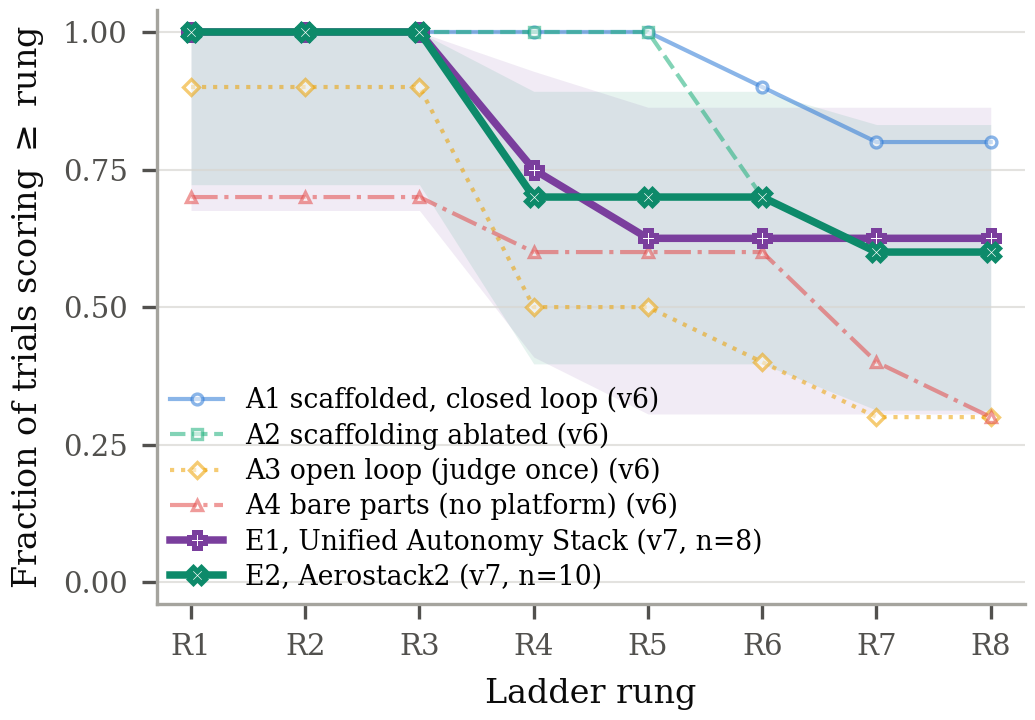
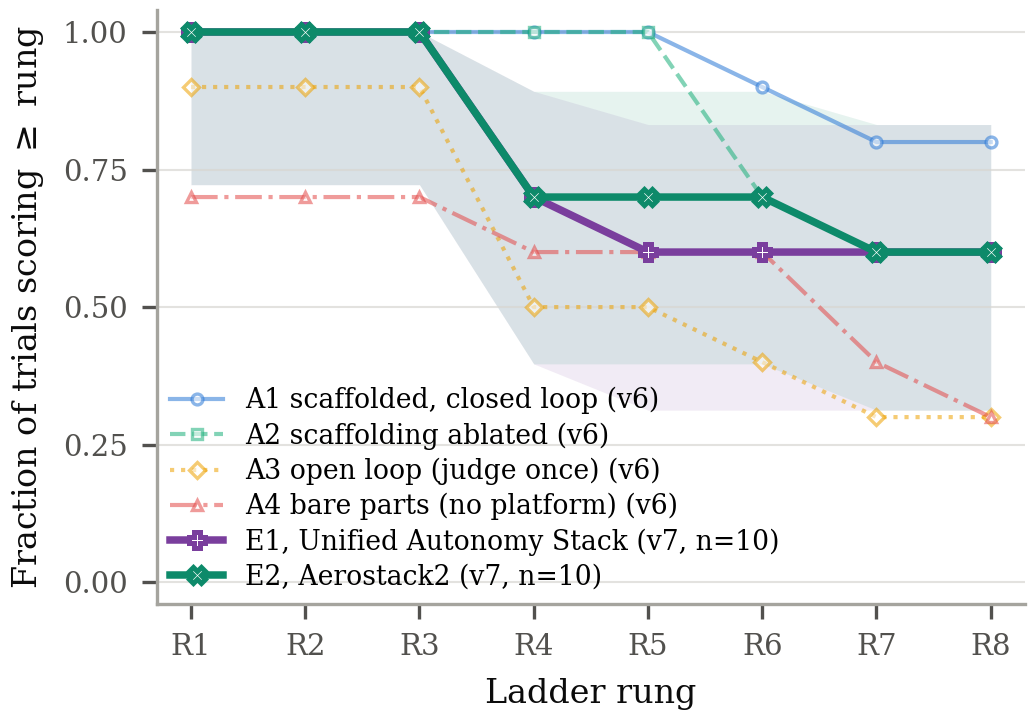
notebook 014 DONE: v7-external campaign complete (20/20) — results_summary, final analysis (E1/E2 0.60 at R8; opus 5/5, sonnet 1/5 each), strategy log; agent_study -> e71611a

diff --git a/notebook/014-agent-study-external-stacks/results/g-analysis/tab_agents_external.tex b/notebook/014-agent-study-external-stacks/results/g-analysis/tab_agents_external.tex
@@ -10,7 +10,7 @@ A2 & 6/10 & $2.6 \pm 0.8$ & $10.5 \pm 4.1$ & $18.11 \pm 4.81$ (9) \\
 A3 & 3/10 & $1.4 \pm 0.3$ & 0 (by design) & $16.07 \pm 4.46$ (10) \\
 A4 & 3/10 & $2.7 \pm 0.7$ & $13.6 \pm 2.8$ & $28.53 \pm 9.18$ (9) \\
 \midrule
-E1 & 5/8 & $3.1 \pm 1.1$ & $11.9 \pm 2.4$ & $21.34 \pm 3.97$ (6) \\
+E1 & 6/10 & $3.0 \pm 1.0$ & $11.3 \pm 2.5$ & $20.09 \pm 4.17$ (8) \\
 E2 & 6/10 & $3.1 \pm 1.0$ & $10.0 \pm 3.4$ & $21.29 \pm 6.95$ (7) \\
 \bottomrule
 \end{tabular}

diff --git a/notebook/014-agent-study-external-stacks/results/results_summary.md b/notebook/014-agent-study-external-stacks/results/results_summary.md
@@ -1,0 +1,145 @@
+# Results Summary: Agent Proxy Study on External Stacks (UAS + Aerostack2) via OSMO
+
+> Spec: [`../design_spec.md`](../design_spec.md) · Date: 2026-09-12 10:45 · Branch: `airstack-paper` · Commit tested: agent_study `e71611a` (runner `cdd72a8`+ for all pods launched after 15:11 EDT 09-11; config sha `bb4f5ca2…`, prompt sha `afad954d…`)
+
+Campaign `2026-09-icra27-vic-v7-external`: the frozen v6 ladder (prompt v4,
+planners, caps 20 judge calls / 4 h, judge parameters byte-identical to v6)
+applied to two public aerial autonomy stacks as host-mode arms, one trial
+per OSMO pod. **20/20 trials scored** between 2026-09-11 06:28 and
+2026-09-12 10:28 EDT. Reported beside campaign v6; never pooled.
+
+## (a) Judge-CLI cross-distro interop
+
+**Setup:** Humble publisher container vs Jazzy/Humble observer containers on host networking (docker only, this box).
+**Run at:** 2026-09-11 04:55–05:00 · pre-commit
+
+| Check | Result |
+|---|---|
+| Jazzy CLI ↔ Humble publisher (`topic list/echo/hz`) | ✅ once a stale third-party daemon on the host was stopped |
+| Root cause of initial ✗ | shared per-domain `ros2` daemon under host networking (another user's cyclonedds daemon answered) |
+| Decision | pod `ros2` = persistent Humble container (`ros:humble-ros-base`) behind `/usr/local/bin/ros2`, so judge and platform share one Humble daemon |
+
+Details: [a-judge-cli-interop/interop_notes.md](a-judge-cli-interop/interop_notes.md). **PASS.**
+
+## (b) Runner smoke
+
+**Setup:** `run_trial.py --config study_config_v7_external.yaml --arm E1|E2 --agent mock:noop --smoke`; A3 v6 smoke regression.
+**Run at:** 2026-09-11 05:06 · agent_study `93356dd`
+
+| Metric | Value | Pass criterion | Pass? |
+|---|---|---|---|
+| v7 `judge:` block vs v6 | identical (`diff` empty) | identical | ✅ |
+| composed prompt sha (E1/E2) | `afad954d…` | = v6 frozen prompt | ✅ |
+| E1/E2 workspaces | pinned clones + `ENVIRONMENT.md` + `provided/` + shim (`STUDY_HOST_MODE=1`) | schema-valid results.json | ✅ |
+| A3 v6 smoke | config sha `3b2402f6…` unchanged | unchanged | ✅ |
+
+Details: [b-runner-smoke/smoke_notes.md](b-runner-smoke/smoke_notes.md). **PASS.**
+
+## (c) Pod image + OSMO pilot
+
+**Setup:** `airlab-docker.andrew.cmu.edu/airstack/agent-study-pod:v1` (DinD, claude 2.1.265, non-root `study` user, Humble judge-CLI wrapper, auth probe); mock-agent pilot pod through the orchestrator.
+**Run at:** 2026-09-11 06:22–06:24 · agent_study `4122415`
+
+| Metric | Value | Pass criterion | Pass? |
+|---|---|---|---|
+| submit → RUNNING → bundle in → trial → DONE → download → cancel | 2 min end to end | complete archive on this box | ✅ |
+| inner dockerd | overlay2 on `/osmo/run` (ext4), GPU visible to inner containers | overlay2 + GPU | ✅ |
+| transport | rsync over ssh through `osmo workflow port-forward` (OSMO rsync is disabled on the lab deployment) | works | ✅ |
+
+OSMO findings (rsync disabled, TTY-only exec, per-node scheduling contention, resource sizing): [c-pod-image-osmo-pilot/osmo_pilot_notes.md](c-pod-image-osmo-pilot/osmo_pilot_notes.md). **PASS.**
+
+## (d) Provisioning
+
+**Run at:** 2026-09-11 05:29–11:17 · bake pods
+
+| Item | Value |
+|---|---|
+| UAS `make images` (13 targets) → harbor mirror | 348 min, 1–12 GB per image |
+| Aerostack2 Harmonic variant (upstream dockerfile, tags pinned) | 30 min, 1.8 GB |
+| Per-trial provisioning in pods | E2 117–169 s; E1 853–1078 s (~80 GB of images + 49 repos) |
+
+Platform findings: UAS's exact-pin importer aborts on a private repo; Aerostack2's nightly image is Gazebo Fortress with a floating-tag Harmonic dockerfile. Details: [d-provisioning/provisioning_notes.md](d-provisioning/provisioning_notes.md). **PASS.**
+
+## (e) Pilot real trial
+
+**Setup:** E2 (Aerostack2) / claude-sonnet-5 / #1, first real pod.
+**Run at:** 2026-09-11 06:28–10:49 · runner `e20b682`
+
+| Metric | Value |
+|---|---|
+| In-session | R1–R6 passed by 09:05, R7 ×5 failed, 4 h cap |
+| Defect found | `subprocess.run(timeout)` killed only `claude`; an in-flight agent judge run overlapped the final scoring pass (R6/R5/R4 verdicts contaminated) |
+| Disposition | infra defect → archived `.pilot-orphan-contaminated`, **rerun** with fixed runner (`cdd72a8`: process-group kill + pre-scoring sweep) |
+
+Details: [e-pilot-real-trial/pilot_notes.md](e-pilot-real-trial/pilot_notes.md). **Runner defect found and fixed before the batch; PASS as a pilot.**
+
+## (f) Trial matrix
+
+**Setup:** 20 ladder trials, ≤4 pods (12 overnight by lead permission; the cluster never yielded more than 5), HIGH priority, interleaved round-robin.
+**Run at:** 2026-09-11 11:08 → 2026-09-12 10:28 EDT · runner `cdd72a8`–`e71611a` (per-trial `runner_commit` in results.json)
+
+Final-state score per trial (in-session best in brackets where higher; `+n` = direct executions of judge internals besides the counted shim calls; `cap` = 4 h wall-clock kill, no usage event):
+
+| Cell | #1 | #2 | #3 | #4 | #5 | R8 |
+|---|---|---|---|---|---|---|
+| E2 Aerostack2 · opus | R8 (16, 4.0 h, $26.23) | R8 (14 +2, 2.1 h, $22.86) | R8 (7, cap) | R8 [R6] (6, cap) | R8 (10, 2.6 h, $17.46) | **5/5** |
+| E2 Aerostack2 · sonnet | R3 [R6] (13 +22, cap) | R6 (7, 3.9 h, $21.53) | R8 (11, 1.9 h, $17.98) | R3 [R8] (9, 1.4 h, $10.60) | R3 [R8] (7 +4, 3.4 h, $32.38) | **1/5** |
+| E1 UAS · opus | R8 (14, 2.2 h, $22.57) | R8 (13 +2, 3.3 h, $21.18) | R8 (15 +1, 1.9 h, $17.50) | R8 (9 +7, 3.9 h, $27.40) | R8 (10 +9, 1.7 h, $14.74) | **5/5** |
+| E1 UAS · sonnet | R3 [R6] (11, cap) | R4 [R8] (9 +3, 3.8 h, $22.91) | R8 (10, 1.4 h, $16.50) | R3 [R6] (14, cap) | R3 [R8] (8 +25, 3.5 h, $17.93) | **1/5** |
+
+Infra dispositions (rule 4, never scored): E2 sonnet #1 attempt 1 (orphaned-judge scoring contamination, runner defect), E1 sonnet #1 attempt 1 (OSMO node NotReady after 3 h 40 m), E2 sonnet #1 rerun's runner crash before scoring (root-owned core dump in the manifest walk → fixed, scoring resumed in place with `--resume-scoring` on the intact workspace). Full per-trial record: [f-trial-matrix/matrix_status.md](f-trial-matrix/matrix_status.md).
+
+**Interpretation:**
+- **Opus reached the full ladder in 10/10 trials on both external stacks** (1.7–4.0 h agent time, $14.74–27.40), vs. 4/5 on AirStack A1 and 5/5 on A2 in v6.
+- **Sonnet reached R8 in 1/5 on each stack** (vs. 4/5 on A1). 7 of the 8 sonnet sub-R8 trials had passed R6 or higher in-session (5 had passed R8), then failed the final-state re-bring-up: planner alpha left active after R7/R8 work (R4/R5 fail by construction), a hung `./takeoff`, or a tracking/clearance flake on the fresh judge route. The final-state rule is the same one v6 used; the gap is in producing a system that comes up reliably from `./bringup`, not in ever reaching the rung.
+- **Rule-5 audit:** every agent read the judge code; 11/20 executed check internals directly (mostly the R1–R4 graph checks as pre-checks; three sonnet trials ran `r5_provenance.py` flights via `nohup`, 22–25 times). Counted shim calls stay the cap accounting; direct executions are reported next to them (`runner/audit_direct_harness.py`).
+- Cost over the 15 trials with usage events: $291.86 + 3 later ones ≈ **$340 total**; 5 cap-killed trials lost their usage event (as in v6).
+
+## (g) Analysis
+
+**Setup:** `g-analysis/analysis_v7.py` (loads v6 via notebook 011's analysis.py, v7 from `runs/E*`; side by side, never pooled).
+**Run at:** 2026-09-12 10:29 · 20/20 trials
+
+Rung survival (fraction of trials scoring ≥ rung; v7 n=10 per arm):
+
+| Arm | ≥R1 | ≥R2 | ≥R3 | ≥R4 | ≥R5 | ≥R6 | ≥R7 | ≥R8 |
+|---|---|---|---|---|---|---|---|---|
+| A1 AirStack scaffolded (v6) | 1.00 | 1.00 | 1.00 | 1.00 | 1.00 | 0.90 | 0.80 | 0.80 |
+| A2 AirStack ablated (v6) | 1.00 | 1.00 | 1.00 | 1.00 | 1.00 | 0.70 | 0.60 | 0.60 |
+| A3 open loop (v6) | 0.90 | 0.90 | 0.90 | 0.50 | 0.50 | 0.40 | 0.30 | 0.30 |
+| A4 bare parts (v6) | 0.70 | 0.70 | 0.70 | 0.60 | 0.60 | 0.60 | 0.40 | 0.30 |
+| **E1 Unified Autonomy Stack (v7)** | 1.00 | 1.00 | 1.00 | 0.70 | 0.60 | 0.60 | 0.60 | 0.60 |
+| **E2 Aerostack2 (v7)** | 1.00 | 1.00 | 1.00 | 0.70 | 0.70 | 0.70 | 0.60 | 0.60 |
+
+Per model (n=5): E1 opus 1.00 at every rung; E1 sonnet 1.00/1.00/1.00/0.40/0.20/0.20/0.20/0.20; E2 opus 1.00 at every rung; E2 sonnet 1.00/1.00/1.00/0.40/0.40/0.40/0.20/0.20.
+
+![Rung survival, v6 arms (muted) and v7 external arms](g-analysis/rung_survival_ext.png)
+
+`tab:agents` rows (mean ± sd; cost over trials with usage events):
+
+| Arm | R8 | Hours | Judge calls | USD (n) |
+|---|---|---|---|---|
+| A1 | 8/10 | 2.1 ± 0.4 | 9.8 ± 2.6 | 17.25 ± 7.86 (10) |
+| A2 | 6/10 | 2.6 ± 0.8 | 10.5 ± 4.1 | 18.11 ± 4.81 (9) |
+| A3 | 3/10 | 1.4 ± 0.3 | 0 (by design) | 16.07 ± 4.46 (10) |
+| A4 | 3/10 | 2.7 ± 0.7 | 13.6 ± 2.8 | 28.53 ± 9.18 (9) |
+| E1 | 6/10 | 3.0 ± 1.0 | 11.3 ± 2.5 | 20.09 ± 4.17 (8) |
+| E2 | 6/10 | 3.1 ± 1.0 | 10.0 ± 3.4 | 21.29 ± 6.95 (7) |
+
+LaTeX rows: [g-analysis/tab_agents_external.tex](g-analysis/tab_agents_external.tex); full output incl. the in-session/final regression counts: [g-analysis/analysis_v7_output.md](g-analysis/analysis_v7_output.md). Pod environment uniform: RTX PRO 5000 Blackwell, driver 580.126.20.
+
+**Interpretation for the paper:** both external platforms land between AirStack A1 (0.80 at R8) and its ablation A2 (0.60) — exactly 0.60 each, pooled over models — and well above bare parts (0.30). The model interaction seen on A2 (opus 5/5, sonnet 1/5) reappears on both external stacks (opus 5/5, sonnet 1/5), while A1 was the only arm where sonnet also reached 4/5. The v7 sonnet losses are dominated by final-state regressions (7/8 sub-R8 trials had passed ≥R6 in-session). Caveats to state: n=5 per cell; pods differed in CPU/memory request across trials (recorded per trial); external arms used the host-mode judge path (same as A4/bare parts) rather than the pytest harness path (A1/A2); cluster contention meant the cap of 4 concurrent pods was the effective rate.
+
+## Overall Verdict
+
+| Spec section | Verdict |
+|---|---|
+| (a) judge-CLI interop | ✅ |
+| (b) runner smoke | ✅ |
+| (c) pod image + OSMO pilot | ✅ |
+| (d) provisioning | ✅ |
+| (e) pilot real trial | ✅ (runner defect found + fixed, rerun) |
+| (f) trial matrix | ✅ 20/20 scored (3 infra reruns/recoveries, all logged) |
+| (g) analysis | ✅ figure + table regenerated from raw results.json |
+
+**Known limitations:** resume-scored E2 sonnet #1 rerun has reconstructed agent bookkeeping (wall-clock cap, no usage event); the AirLab SMB results mirror never authenticated (results travelled only over the ssh tunnel); agents could read and, in 11/20 trials, execute the judge internals (same exposure as v6; audited, not prevented); pod resources varied (4 vs 8 CPU) with cluster contention; Amendment 4 is still a draft pending lead approval.

diff --git a/notebook/strategy.md b/notebook/strategy.md
@@ -19,7 +19,7 @@
 >   the content. Never rewrite or prune it; correct an old entry only
 >   by appending a newer one.
 >
-> Last updated: 2026-09-11
+> Last updated: 2026-09-12
 
 ## Current direction
 
@@ -116,7 +116,7 @@ come from the entries' own labels.
 
 | Campaign | Goal | Entries | Status |
 |---|---|---|---|
-| Agent study (paper Sec. VI-C) | Run the four-arm proxy-developer study on the bring-up-to-flight ladder, judged by the pytest harness | [007-agent-study-prereqs](007-agent-study-prereqs/design_spec.md), [008-droan-gl-r7-avoidance-fix](008-droan-gl-r7-avoidance-fix/design_spec.md), [009-droan-gl-yaw-sweep-unstick](009-droan-gl-yaw-sweep-unstick/design_spec.md), [010-mighty-local-planner-module](010-mighty-local-planner-module/design_spec.md), [011-agent-study-v6-trials](011-agent-study-v6-trials/design_spec.md), [014-agent-study-external-stacks](014-agent-study-external-stacks/design_spec.md) | 007 `WIP` (P-5, P-7 open, non-blocking); 008 `DONE` (verdict (c) ❌ under frozen config); 009 `DONE` (sweep works, R7 still 0/10); 010 `DONE` — MIGHTY swapped in as `asm_mighty` v0.1.0; R7 reference solvability 5/5 under frozen v6; 011 `DONE` — 40/40 trials scored + §(d) paper analysis complete 2026-09-02 (figure, tab:agents, cycles, taxonomy); 014 `WIP` — campaign v7-external (E1 Unified Autonomy Stack, E2 Aerostack2) on OSMO pods, started 2026-09-11 |
+| Agent study (paper Sec. VI-C) | Run the four-arm proxy-developer study on the bring-up-to-flight ladder, judged by the pytest harness | [007-agent-study-prereqs](007-agent-study-prereqs/design_spec.md), [008-droan-gl-r7-avoidance-fix](008-droan-gl-r7-avoidance-fix/design_spec.md), [009-droan-gl-yaw-sweep-unstick](009-droan-gl-yaw-sweep-unstick/design_spec.md), [010-mighty-local-planner-module](010-mighty-local-planner-module/design_spec.md), [011-agent-study-v6-trials](011-agent-study-v6-trials/design_spec.md), [014-agent-study-external-stacks](014-agent-study-external-stacks/design_spec.md) | 007 `WIP` (P-5, P-7 open, non-blocking); 008 `DONE` (verdict (c) ❌ under frozen config); 009 `DONE` (sweep works, R7 still 0/10); 010 `DONE` — MIGHTY swapped in as `asm_mighty` v0.1.0; R7 reference solvability 5/5 under frozen v6; 011 `DONE` — 40/40 trials scored + §(d) paper analysis complete 2026-09-02 (figure, tab:agents, cycles, taxonomy); 014 `DONE` — campaign v7-external 20/20 scored 2026-09-12: E1 UAS and E2 Aerostack2 both 0.60 at R8 (opus 5/5, sonnet 1/5 each), between A1 (0.80) and A2 (0.60), above bare parts (0.30) |
 | Paper writing & positioning | Sec. I–V prose, case-study interviews, figures | — (lives in the `ICRA_2027_AirStack_Paper/` submodule; no notebook entries) | Related Work + Design Principles prose done 2026-08-03; interviews not recorded anywhere yet |
 | Measurement studies (paper Table I + Sec. VI-B) | Reproducible LOC-reuse and defect-mining scripts over the five case-study repos, released with the paper | [012-paper-measurement-studies](012-paper-measurement-studies/design_spec.md) (moved out of the Overleaf-synced paper repo 2026-09-08) | `DONE` 2026-09-08 — Table I code rows filled for all five (Powerline Inspection team-reported); defects mined for RAVEN / DFM2 / Construction Inspection / Safe Swarm / Powerline Inspection (team) / AirStack-core; VI-B reframed to sim-in-the-loop |
 | Release gate / v1.0 readiness | The seven paper-blocking items (clone-and-run, verified hardware path, …) | — (no notebook entries yet) | ~63 open `\task{}` vs 1 `\done{}` in `release_gate_and_tasks.tex` |
@@ -133,6 +133,24 @@ the strategy get no entry. Format: `### YYYY-MM-DD — what happened`,
 answering *what we learned or decided, what it changed, link to the
 evidence*.
 
+
+
+### 2026-09-12 — External-platform arms complete: AirStack A1 leads both public stacks at R8; the model×platform interaction generalizes
+
+Campaign v7-external finished (20/20 trials, [014](014-agent-study-external-stacks/results/results_summary.md)).
+Under the frozen v6 ladder, the NTNU Unified Autonomy Stack (E1) and
+Aerostack2 (E2) each reach R8 in 6/10 trials — opus 5/5, sonnet 1/5 on
+both — versus AirStack A1 8/10 (opus 4/5, sonnet 4/5), A2 6/10 and bare
+parts 3/10. What changes: Sec. VI-C can now situate C4 against real
+platforms, not only against AirStack's own ablation; the headline shifts
+from "AirStack vs. nothing" to "the scaffolded stack is the only arm where
+the weaker model also completes the ladder", and the sonnet losses on E1/E2
+are final-state regressions (7/8 had passed ≥R6 in-session), which sharpens
+the "agent legibility = reproducible bring-up" reading. Caveats for the
+text: n=5/cell, host-mode judging for E arms (as A4), pod resources varied
+under cluster contention, Amendment 4 pending lead approval. Infra lesson
+recorded in the entry: OSMO rsync disabled → ssh tunnels; process-group
+kill for the agent; direct-harness audit script.
 
 ### 2026-09-11 — Agent study extended to two external platforms (campaign v7-external) on the lab OSMO pool
 

diff --git a/notebook/014-agent-study-external-stacks/results/g-analysis/analysis_v7_output.md b/notebook/014-agent-study-external-stacks/results/g-analysis/analysis_v7_output.md
@@ -1,19 +1,19 @@
 # Campaign v7-external beside campaign v6 (generated by analysis_v7.py)
 
-v6 trials: 40 (config 3b2402f6); v7 trials: 18 (config bb4f5ca2) from /home/andrew/Development/AirStack/agent_study/runs
+v6 trials: 40 (config 3b2402f6); v7 trials: 20 (config bb4f5ca2) from /home/andrew/Development/AirStack/agent_study/runs
 
 ## v7 score matrix (highest_rung_passed)
 
 | Cell | trials (index: final rung [in-session best], judge calls (+direct execs), agent h, USD) |
 |---|---|
-| E1 sonnet (n=4) | #1: R3 [R6], 11, 4.0h cap, —; #2: R4 [R8], 9 (+3), 3.8h, 22.91; #3: R8 [R8], 10 (+1), 1.4h, 16.50; #4: R3 [R6], 14, 4.0h cap, — |
-| E1 opus (n=4) | #1: R8 [R8], 14, 2.2h, 22.57; #2: R8 [R8], 13 (+2), 3.3h, 21.18; #3: R8 [R8], 15 (+1), 1.9h, 17.50; #4: R8 [R8], 9 (+7), 3.9h, 27.40 |
+| E1 sonnet (n=5) | #1: R3 [R6], 11, 4.0h cap, —; #2: R4 [R8], 9 (+3), 3.8h, 22.91; #3: R8 [R8], 10 (+1), 1.4h, 16.50; #4: R3 [R6], 14, 4.0h cap, —; #5: R3 [R8], 8 (+25), 3.5h, 17.93 |
+| E1 opus (n=5) | #1: R8 [R8], 14, 2.2h, 22.57; #2: R8 [R8], 13 (+2), 3.3h, 21.18; #3: R8 [R8], 15 (+1), 1.9h, 17.50; #4: R8 [R8], 9 (+7), 3.9h, 27.40; #5: R8 [R8], 10 (+9), 1.7h, 14.74 |
 | E2 sonnet (n=5) | #1: R3 [R6], 13 (+22), 4.0h cap, —; #2: R6 [R6], 7, 3.9h, 21.53; #3: R8 [R8], 11, 1.9h, 17.98; #4: R3 [R8], 9, 1.4h, 10.60; #5: R3 [R8], 7 (+4), 3.4h, 32.38 |
 | E2 opus (n=5) | #1: R8 [R8], 16, 4.0h, 26.23; #2: R8 [R8], 14 (+2), 2.1h, 22.86; #3: R8 [R8], 7, 4.0h cap, —; #4: R8 [R6], 6, 4.0h cap, —; #5: R8 [R8], 10, 2.6h, 17.46 |
 
 In-session best vs final (final-state regressions = trials whose agent saw a higher rung pass than the final scoring):
-- E1 sonnet: 3/4 regressed; reached R8 at any point: 2/4; final R8: 1/4
-- E1 opus: 0/4 regressed; reached R8 at any point: 4/4; final R8: 4/4
+- E1 sonnet: 4/5 regressed; reached R8 at any point: 3/5; final R8: 1/5
+- E1 opus: 0/5 regressed; reached R8 at any point: 5/5; final R8: 5/5
 - E2 sonnet: 3/5 regressed; reached R8 at any point: 3/5; final R8: 1/5
 - E2 opus: 0/5 regressed; reached R8 at any point: 5/5; final R8: 5/5
 
@@ -25,7 +25,7 @@ In-session best vs final (final-state regressions = trials whose agent saw a hig
 | A2 (v6) | 10 | 1.00 | 1.00 | 1.00 | 1.00 | 1.00 | 0.70 | 0.60 | 0.60 |
 | A3 (v6) | 10 | 0.90 | 0.90 | 0.90 | 0.50 | 0.50 | 0.40 | 0.30 | 0.30 |
 | A4 (v6) | 10 | 0.70 | 0.70 | 0.70 | 0.60 | 0.60 | 0.60 | 0.40 | 0.30 |
-| E1 (v7) | 8 | 1.00 | 1.00 | 1.00 | 0.75 | 0.62 | 0.62 | 0.62 | 0.62 |
+| E1 (v7) | 10 | 1.00 | 1.00 | 1.00 | 0.70 | 0.60 | 0.60 | 0.60 | 0.60 |
 | E2 (v7) | 10 | 1.00 | 1.00 | 1.00 | 0.70 | 0.70 | 0.70 | 0.60 | 0.60 |
 
 Per model:
@@ -40,8 +40,8 @@ Per model:
 | A3 opus | 5 | 1.00 | 1.00 | 1.00 | 0.60 | 0.60 | 0.40 | 0.40 | 0.40 |
 | A4 sonnet | 5 | 0.40 | 0.40 | 0.40 | 0.40 | 0.40 | 0.40 | 0.00 | 0.00 |
 | A4 opus | 5 | 1.00 | 1.00 | 1.00 | 0.80 | 0.80 | 0.80 | 0.80 | 0.60 |
-| E1 sonnet | 4 | 1.00 | 1.00 | 1.00 | 0.50 | 0.25 | 0.25 | 0.25 | 0.25 |
-| E1 opus | 4 | 1.00 | 1.00 | 1.00 | 1.00 | 1.00 | 1.00 | 1.00 | 1.00 |
+| E1 sonnet | 5 | 1.00 | 1.00 | 1.00 | 0.40 | 0.20 | 0.20 | 0.20 | 0.20 |
+| E1 opus | 5 | 1.00 | 1.00 | 1.00 | 1.00 | 1.00 | 1.00 | 1.00 | 1.00 |
 | E2 sonnet | 5 | 1.00 | 1.00 | 1.00 | 0.40 | 0.40 | 0.40 | 0.20 | 0.20 |
 | E2 opus | 5 | 1.00 | 1.00 | 1.00 | 1.00 | 1.00 | 1.00 | 1.00 | 1.00 |
 
@@ -53,9 +53,9 @@ Per model:
 | A2 | 10 | 6/10 | 6.9 | 2.6 ± 0.8 | 10.5 ± 4.1 | 18.11 ± 4.81 (9) |
 | A3 | 10 | 3/10 | 4.7 | 1.4 ± 0.3 | 0.0 ± 0.0 | 16.07 ± 4.46 (10) |
 | A4 | 10 | 3/10 | 4.6 | 2.7 ± 0.7 | 13.6 ± 2.8 | 28.53 ± 9.18 (9) |
-| E1 | 8 | 5/8 | 6.2 | 3.1 ± 1.1 | 11.9 ± 2.4 | 21.34 ± 3.97 (6) |
-| — E1 sonnet | 4 | 1/4 | 4.5 | 3.3 ± 1.2 | 11.0 ± 2.2 | 19.70 ± 4.53 (2) |
-| — E1 opus | 4 | 4/4 | 8.0 | 2.8 ± 0.9 | 12.8 ± 2.6 | 22.16 ± 4.09 (4) |
+| E1 | 10 | 6/10 | 6.1 | 3.0 ± 1.0 | 11.3 ± 2.5 | 20.09 ± 4.17 (8) |
+| — E1 sonnet | 5 | 1/5 | 4.2 | 3.3 ± 1.1 | 10.4 ± 2.3 | 19.11 ± 3.36 (3) |
+| — E1 opus | 5 | 5/5 | 8.0 | 2.6 ± 0.9 | 12.2 ± 2.6 | 20.68 ± 4.86 (5) |
 | E2 | 10 | 6/10 | 6.3 | 3.1 ± 1.0 | 10.0 ± 3.4 | 21.29 ± 6.95 (7) |
 | — E2 sonnet | 5 | 1/5 | 4.6 | 2.9 ± 1.2 | 9.4 ± 2.6 | 20.63 ± 9.07 (4) |
 | — E2 opus | 5 | 5/5 | 8.0 | 3.3 ± 0.9 | 10.6 ± 4.3 | 22.18 ± 4.42 (3) |

diff --git a/notebook/014-agent-study-external-stacks/design_spec.md b/notebook/014-agent-study-external-stacks/design_spec.md
@@ -1,12 +1,12 @@
 # Design Spec: Agent Proxy Study on External Stacks (UAS + Aerostack2) via OSMO
 
-> Notebook entry: `notebook/014-agent-study-external-stacks/` · Date started: 2026-09-11 04:41 · Last updated: 2026-09-11 05:30 · Branch: `airstack-paper` · Commit: `4556d8233` (agent_study submodule `38be204`)
+> Notebook entry: `notebook/014-agent-study-external-stacks/` · Date started: 2026-09-11 04:41 · Last updated: 2026-09-12 10:45 · Branch: `airstack-paper` · Commit: `4556d8233` (agent_study submodule `38be204`)
 >
 > Campaign: `Agent study (paper Sec. VI-C)` — extends
 > [011](../011-agent-study-v6-trials/design_spec.md) (v6, AirStack arms)
 > with two **external-platform arms** run on the lab's OSMO GPU pool.
 >
-> **Status: `WIP`** <!-- DESIGN/TODO → WIP → DONE. Overall status = least-advanced section below. -->
+> **Status: `DONE`** <!-- 20/20 trials scored 2026-09-12 10:28 EDT; results/results_summary.md -->
 >
 > **Canonical spec:** `agent_study/agent_study_protocol.md` (PRIVATE
 > submodule). This entry is the execution record for the external-stack
@@ -160,7 +160,7 @@ flowchart LR
   `2026-09-icra27-vic-v7-external`): `judge:` block copied verbatim from
   v6; `airstack:` block retained for provenance but unused by E arms.
 
-### 2.2 OSMO trial pod image + entrypoint — `WIP` (image building; vcstool via pip on 24.04)
+### 2.2 OSMO trial pod image + entrypoint — `DONE` (agent-study-pod:v1; sshd transport, auth probe, CIFS optional)
 
 `agent_study/osmo/pod/Dockerfile` → `airlab-docker.andrew.cmu.edu/airstack/agent-study-pod:v1`:
 FROM `airstack-osmo-workspace:latest` (Ubuntu 24.04, docker-ce + compose,
@@ -174,7 +174,7 @@ wait for the rsync'd study bundle marker, run the arm's provisioning
 (pull/retag images, clone repos), run `run_trial.py`, write `DONE` marker,
 sleep until cancelled (so results can be downloaded).
 
-### 2.3 Provisioning workflow (one-off) — `DESIGN/TODO`
+### 2.3 Provisioning workflow (one-off) — `DONE` (results/d-provisioning)
 
 `agent_study/osmo/workflows/provision.yaml`: a CPU-heavy pod that clones
 UAS at the pin, imports repos (`--exact`), runs `make images`, and pushes
@@ -183,7 +183,7 @@ each `unified_autonomy:<target>` to harbor as
 Harmonic variant if the upstream Dockerfile exists and pushes it too.
 Needs the `airlab-docker-login` OSMO credential (lead to register).
 
-### 2.4 Trial workflow + local orchestrator — `DESIGN/TODO`
+### 2.4 Trial workflow + local orchestrator — `DONE` (rsync-over-ssh transport; per-arm resources; HIGH priority; ENOSPC-tolerant)
 
 `agent_study/osmo/workflows/trial.yaml` (privileged, gpu 1, cpu 16,
 64Gi, 300Gi, `exec_timeout` 9h; env `STUDY_ARM/MODEL/TRIAL_INDEX`;
@@ -210,7 +210,7 @@ hints beyond what the platform's own README gives):
   (`ros2`), and network access; ROS 2 topics published on the host network
   are visible at `ROS_DOMAIN_ID=1`. You may install additional packages."
 
-### 2.6 Protocol Amendment 4 (draft, needs lead approval) — `DESIGN/TODO`
+### 2.6 Protocol Amendment 4 (draft, needs lead approval) — `WIP` (text in agent_study_protocol.md; approval pending)
 
 External-platform arms E1/E2: same frozen prompt, planners, ladder, caps,
 judge parameters, host-mode judging as the bare-parts arm; provisioning

diff --git a/notebook/014-agent-study-external-stacks/results/f-trial-matrix/matrix_status.md b/notebook/014-agent-study-external-stacks/results/f-trial-matrix/matrix_status.md
@@ -1,4 +1,4 @@
-# (f) Trial matrix — running record (campaign 2026-09-icra27-vic-v7-external)
+# (f) Trial matrix — COMPLETE 2026-09-12 10:28 ET (20/20 scored) (campaign 2026-09-icra27-vic-v7-external)
 
 Orchestrator: `agent_study/osmo/osmo_orchestrator.py`, state in `agent_study/osmo/state/`,
 log `orch_pilot_real.log` (scratchpad). Cap: 4 pods. Queue order (round-robin):
@@ -22,6 +22,7 @@ E2:opus:5 · E1:son:5 · E1:opus:5.
 | E1 sonnet #4 | as-e1-sonnet-5-004-1 | 8/32Gi/200Gi | 02:43 | scored (cap hit; in-session R1–R6 then R7 ×4 fail; final: R7 fail clearance, R6 fail `./takeoff` exit 1, R5/R4 fail alpha not running, R3 pass; audit clean; no usage event) | **R3** | 14 | 4.0 (cap) | — |
 | E1 opus #4 | as-e1-opus-5-004-1 | 8/32Gi/200Gi | 03:33 | scored (voluntary exit at 3.9 h; first judge call only at 3.5 h, then R1→R8 in 30 min; audit: 7 direct executions of check internals — review) | **R8** | 9 | 3.89 | 27.40 |
 | E1 opus #5 | as-e1-opus-5-005-1 | 8/32Gi/200Gi | 07:47 | scored (voluntary exit at 1.7 h; audit: 9 direct executions of check internals — review) | **R8** | 10 | 1.72 | 14.74 |
+| E1 sonnet #5 | as-e1-sonnet-5-005-1 | 8/32Gi/200Gi | 06:32 | scored (voluntary exit at 3.5 h; in-session R8 passed 10:16; final: R7/R6 fail goal error 3.8 m, R5/R4 fail alpha not running, R3 pass; **audit flag: 25 direct executions of judge internals**) | **R3** | 8 (+25 direct) | 3.50 | 17.93 |
 | E1 sonnet #1 (attempt 2) | as-e1-sonnet-5-001-2 | 8/32Gi/200Gi | 19:04 (agent 19:45) | scored (cap hit; in-session R1–R6 by 22:44, R7 ×3 fail; final: R7 fail clearance, R6 fail goal error 7.9 m, R5/R4 fail alpha not running; audit clean; provisioning 853 s) | **R3** | 11 | 4.0 (cap) | — |
 | E2 opus #3 | as-e2-opus-5-003-1 | 4/16Gi/100Gi | 21:31 | scored (cap hit while re-verifying R7 after in-session R8 at 22:57; final scoring R7+R8 pass; audit clean; no usage event) | **R8** | 7 | 4.0 (cap) | — |
 | E2 sonnet #4 | as-e2-sonnet-5-004-1 | 4/16Gi/100Gi | 00:36 | scored (voluntary exit at 1.45 h; **in-session R6/R7/R8 all passed 01:59–02:06**; final-state scoring 5 min later: R7 fail clearance, R6 fail track order, R5/R4 fail alpha not running, R3 pass; audit clean) | **R3** | 9 | 1.45 | 10.60 |
